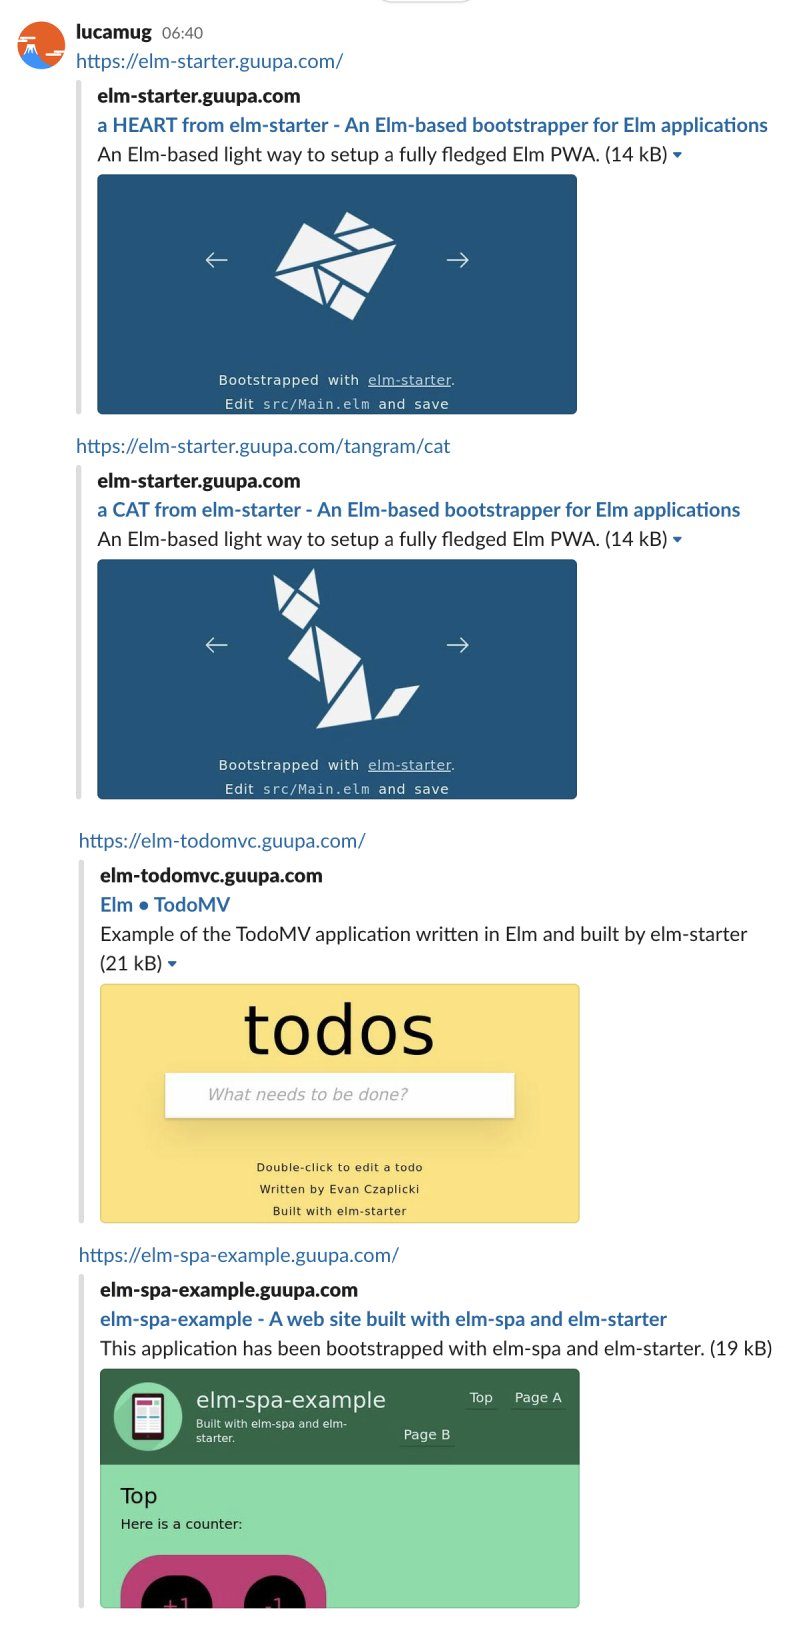
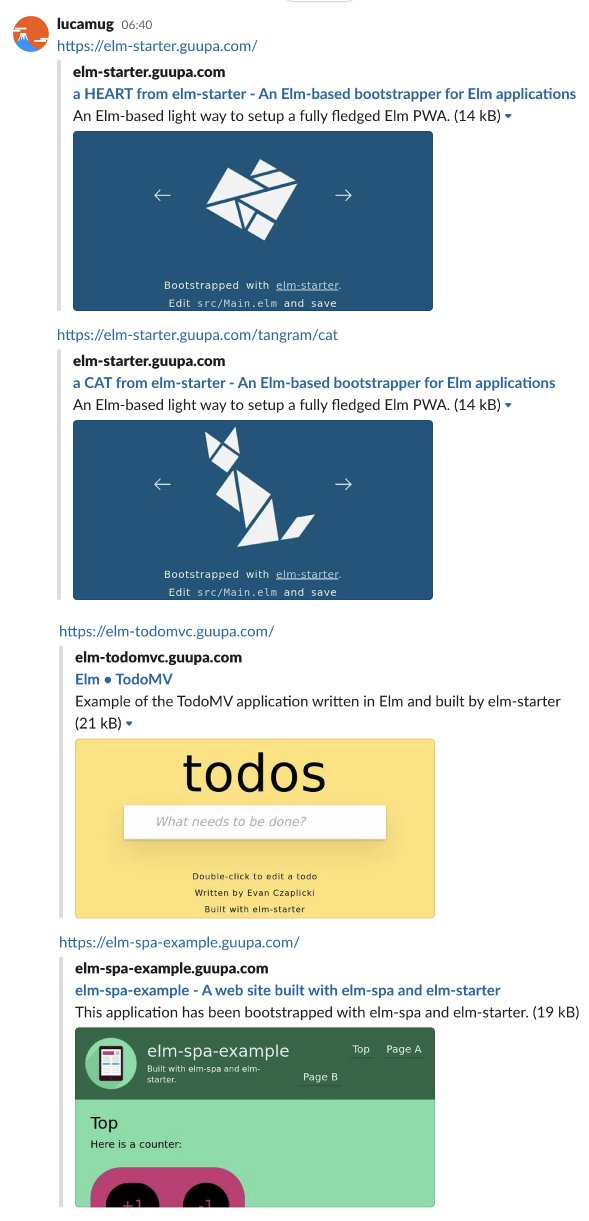
Move few things from Main.elm to package.json

diff --git a/src-elm-starter/starter.js b/src-elm-starter/starter.js
@@ -12,17 +12,39 @@ const fgGreen = "\x1b[32m";
 const fgYellow = "\x1b[33m";
 const fgBlue = "\x1b[34m"
 const fgMagenta = "\x1b[35m";
+const fgRed = "\x1b[31m";
 const dim = "\x1b[2m";
 const reset = "\x1b[0m";
 const totsu = "凸";
 const styleTitle = ` ${fgYellow}${totsu} %s${reset}\n`;
 const styleSubtitle = `    ${dim}${fgYellow}%s${reset}`;
 const styleDebug = `    ${fgMagenta}%s${reset}`;
+const styleWarning = `    ${fgRed}Warning:${reset} %s`;
 const arg = process.argv[2] ? process.argv[2] : "";
 const commit = child_process.execSync('git rev-parse --short HEAD').toString().replace(/^\s+|\s+$/g, '');
 const branch = child_process.execSync('git rev-parse --abbrev-ref HEAD').toString().replace(/^\s+|\s+$/g, '');
 const DEV = "dev";
 const PROD = "prod";
+const NOT_AVAILABLE = "N/A";
+
+
+[ "name"
+, "nameLong"
+, "description"
+, "author"
+, "version"
+, "homepage"
+, "license"
+].map(checkRequired)
+
+
+function checkRequired(key) {
+    if (! package[key] || String(package[key]) === "") {
+        package[key] = NOT_AVAILABLE;
+        console.log(styleWarning, `"${key}" is required in package.json`);
+    }
+}
+
 
 //
 //
@@ -104,13 +126,22 @@ function bootstrap (env, callback) {
             { flags :
                     
                 // From package.jspn
-                { name : package.name
-                , nameLong : package.nameLong
-                , description : package.description
-                , author : package.author
-                , version : package.version
-                , homepage : package.homepage
-                , license : package.license
+                { name : String(package.name)
+                , nameLong : String(package.nameLong)
+                , description : String(package.description)
+                , author : String(package.author)
+                , version : String(package.version)
+                , homepage : String(package.homepage)
+                , license : String(package.license)
+                , twitterSite : typeof package.twitterSite === "undefined"? null : String(package.twitterSite)
+                , twitterAuthor : typeof package.twitterAuthor === "undefined"? null : String(package.twitterAuthor)
+                , snapshotWidth: typeof package.snapshotWidth === "undefined"? null : String(package.snapshotWidth)
+                , snapshotHeight: typeof package.snapshotHeight === "undefined"? null : String(package.snapshotHeight)
+                , themeColor: typeof package.snapshotHeight === "undefined"? null : 
+                    { red: String(package.themeColor.red)
+                    , green: String(package.themeColor.green)
+                    , blue: String(package.themeColor.blue)
+                    }
 
                 // From Git
                 , commit: commit

diff --git a/README.md b/README.md
@@ -43,13 +43,14 @@ These are three simple examples of websites built with `elm-starter`:
 * Friendly notifications: "Loading...", "Must enable Javascript...", "Better enable Javascript..."
 * Potentially compatible with all Elm libraries (elm-ui, elm-spa, etc.)
 * Hopefully relatively simple to use and maintain
+* Non invasive (you can easily add/remove it)
 * Works with Netlify, Surge, etc.
 
 Lighthouse report:
 
 ![Lighthouse report](assets/dev/lighthouse.png)
 
-Slack's previews:
+Slack's previews (note how different urls have different snapshot and meta-data):
 
 ![Slack's previews](assets/dev/slack-previews.jpg)
 
@@ -65,6 +66,8 @@ Slack's previews:
 `elm-starter` is not published in npm yet and it doesn't have a specific command to bootstrap a project, so the way it works now is cloning this repo.
 
 The fastest way is to [click here](https://app.netlify.com/start/deploy?repository=https://github.com/lucamug/elm-starter). This will automatically clone the repo and publish in Netlify.
+
+[![Deploy to Netlify](https://www.netlify.com/img/deploy/button.svg)](https://app.netlify.com/start/deploy?repository=https://github.com/lucamug/elm-starter)
 
 Otherwise the steps are:
 
@@ -123,15 +126,18 @@ Let's suppose your existing project is in `my-elm-app`
 * If you don't have `package.json` in your project, add one with `$ npm init`
 * Be sure that you have these values in `package.json` as they will be used all over the places:
 
-    ```
-    "name": "app-name",
-    "nameLong": "app-name - This can contain spaces",
-    "description": "App description",
-    "author": "Your name",
-    "version": "1.0.0",
-    "homepage": "https://your-app.com",
-    "license": "BSD-3-Clause",
-    ```
+  * "name" - An npm-compatible name (cannot contain spaces)
+  * "nameLong" - The regular name used all over the places, like in the `<title>` of the page, for example
+  * "description"
+  * "author"
+  * "twitterSite" - A reference to a Twitter handle (Just the id without "@")
+  * "twitterCreator" - Another Twitter handle, refer to [Twitter cards markups](https://developer.twitter.com/en/docs/  tweets/optimize-with-cards/overview/markup)
+  * "version"
+  * "homepage"
+  * "license"
+  * "snapshotWidth" - default: 700 px
+  * "snapshotHeight" - default: 350 px
+  * "themeColor" - default: { "red": 15, "green": 85, "blue": 123 }
 
 * Add `node` dependencies with these commands 
     
@@ -155,36 +161,6 @@ Let's suppose your existing project is in `my-elm-app`
       },
     ```
 Done!
-
-
-
-
-
-
-
-
-
-
-
-# Where is my stuff?
-
-
-## Title
-
-* In `package.json`, `nameLong` value
-* Used for
-  * `manifest.json`, `name` value
-  * `index.html`, `<title>` element
-  * `index.html`, `og:title` meta-element
-  * `index.html`, `twitter:title` meta-element
-  * Passed to `Main.elm` as flag `nameLong`, in case you need it in your app.
-
-
-## Short Title
-
-* In `package.json`, `name` value (cannot contain spaces)
-* Used for `manifest.json`, `short_name` value
-  
 
 
 
@@ -373,7 +349,8 @@ Note
 Things that `elm-starter` is not expected to do 
 
 * Doesn't generate Elm code automatically, like Route-parser, for example
-* Doesn't do SSR (Server Side Render) but just pre-render during the build
+* Doesn't touch/wrap the code of your Elm Application
+* Doesn't do live SSR (Server Side Render) but just pre-render during the build
 * Doesn't change the Javascript coming out from the Elm compiler
 * Doesn't create a web site based on static files containing Markdown
 * There is no "[hydration](https://developers.google.com/web/updates/2019/02/rendering-on-the-web)", unless Elm does some magic that I am not aware of. 
